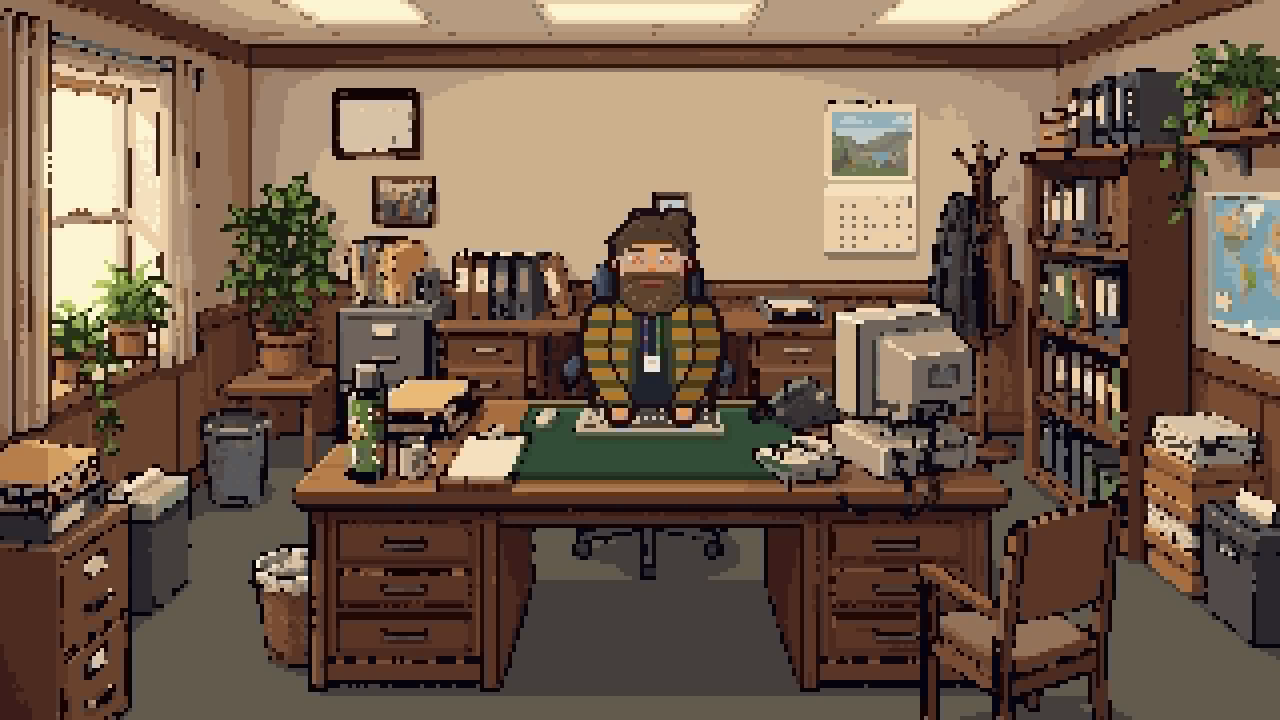
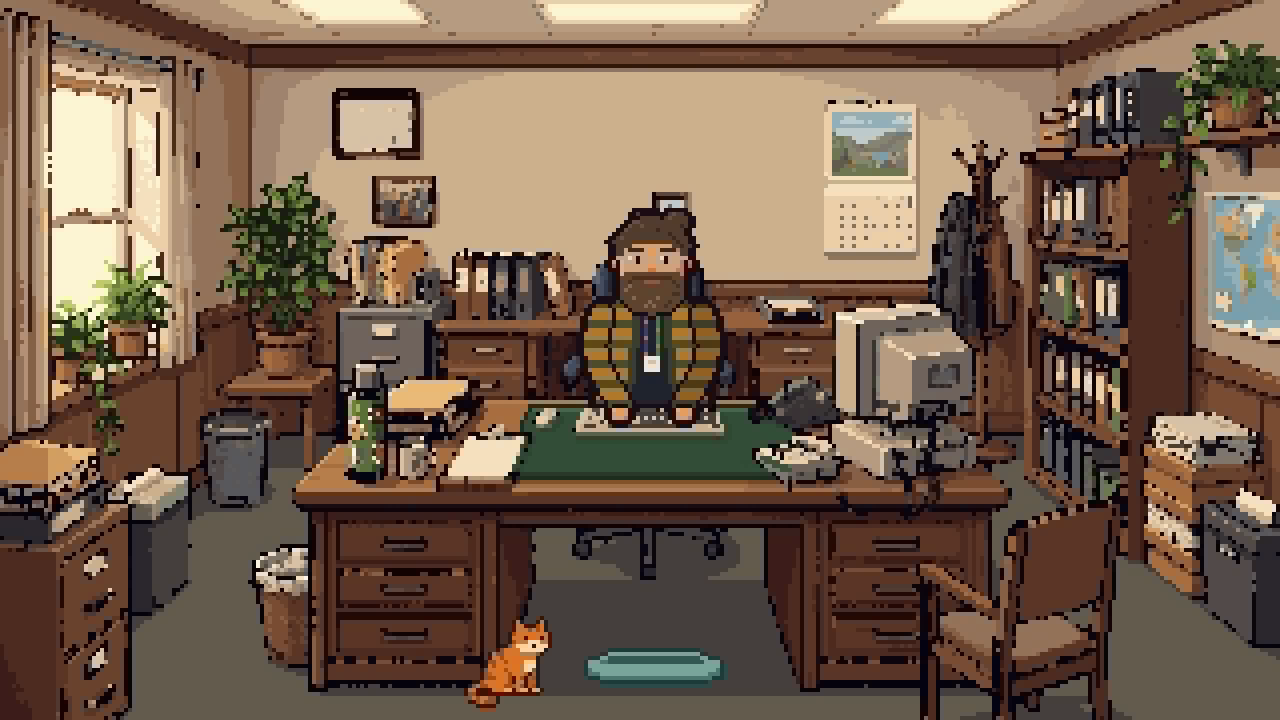
README: Wilma sits in front of the desk in the office picture

Changed region(s): [[0.3438, 0.8556, 0.5938, 1.0], [0.5, 0.3361, 0.5312, 0.3667]]

diff --git a/README.md b/README.md
@@ -1,5 +1,5 @@
 <p align="center">
-  <img src="docs/readme/office.png" alt="Wolfgang sitzt in seinem Pixel-Büro hinter dem Schreibtisch" width="100%">
+  <img src="docs/readme/office.png" alt="Wolfgang sitzt in seinem Pixel-Büro hinter dem Schreibtisch, davor sitzt Wilma, die orange Bürokatze" width="100%">
 </p>
 
 <h1 align="center">Wolfgang</h1>
